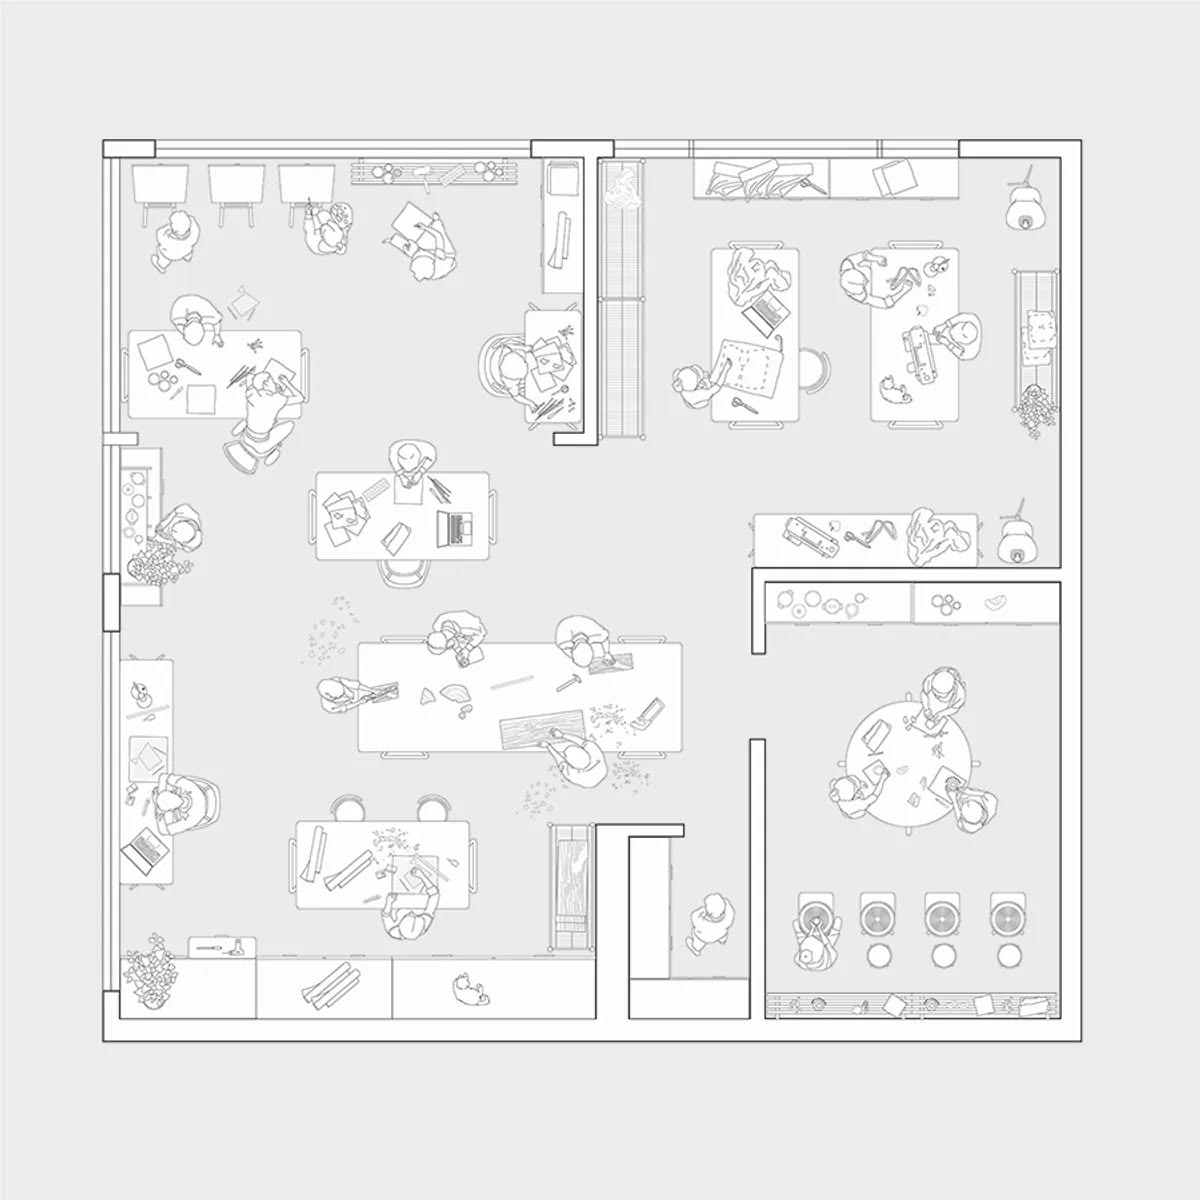
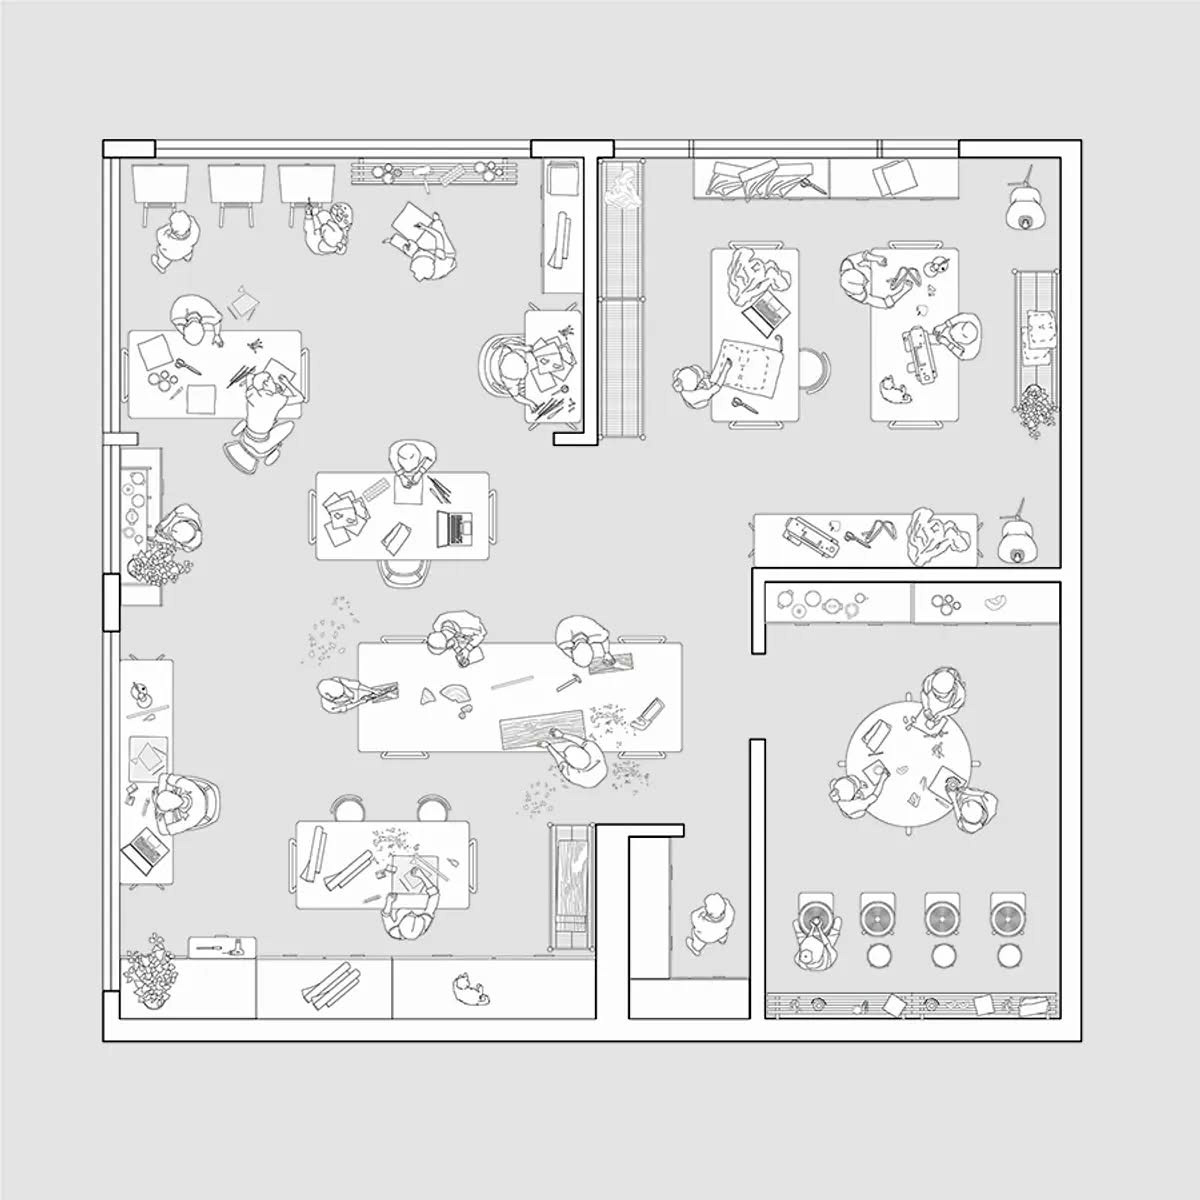
20260627 0920PM

diff --git a/visualization.py b/visualization.py
@@ -325,8 +325,8 @@ def plot_bezier_corner_smoothing(
         s=80,
         zorder=5,
     )
-    ax.text(entry_point[0] - 0.8, entry_point[1] + 0.2, "$P_{in}$", fontsize=16)
-    ax.text(exit_point[0] + 0.3, exit_point[1] + 0.2, "$P_{out}$", fontsize=16)
+    ax.text(entry_point[0] - 1.7, entry_point[1] + 0.2, "$P_{entry}$", fontsize=16)
+    ax.text(exit_point[0] + 0.3, exit_point[1] + 0.2, "$P_{exit}$", fontsize=16)
     ax.text(corner_point[0] - 0.5, corner_point[1] + 0.3, "$P_{curr}$", fontsize=16)
 
     ax.set_xlabel("Trục X", fontsize=14)
